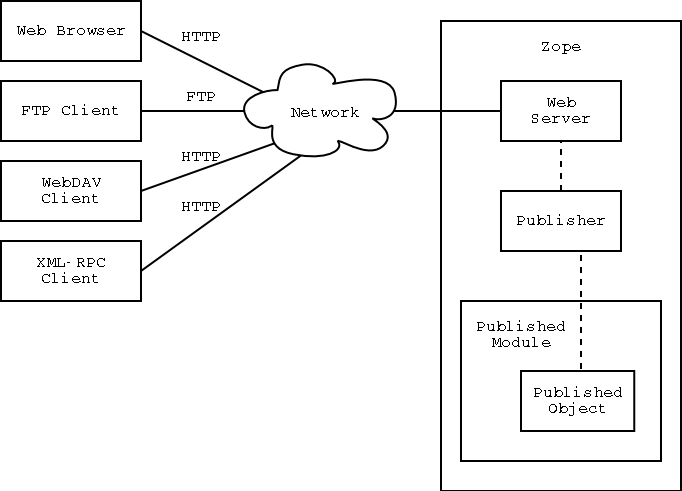
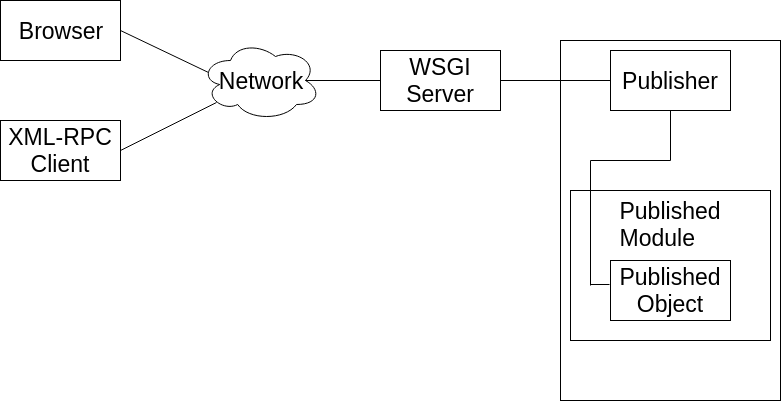
Revise chapter "HTTP Publishing"
modified:   docs/zdgbook/Figures/2-1.png
modified:   docs/zdgbook/ObjectPublishing.rst

diff --git a/docs/zdgbook/ObjectPublishing.rst b/docs/zdgbook/ObjectPublishing.rst
@@ -34,21 +34,31 @@ web publishing.
 HTTP Publishing
 ===============
 
-When you contact Zope with a web browser, your browser sends an HTTP
-request to Zope's web server.  After the request is completely
-received, it is processed by 'ZPublisher', which is Zope's object
-publisher.  'ZPublisher' is a kind of light-weight ORB (Object Request
-Broker).  It takes the request and locates an object to handle the
-request.  The publisher uses the request URL as a map to locate the
-published object.  Finding an object to handle the request is called
+Zope 4 no longer ships with a builtin web server, so when you want
+to interact with Zope via Browser you have to setup a WSGI server as
+a middle ware.
+
+
+.. note::
+
+    For usage on production server you will probably setup a reverse
+    proxy in front of the WSGI server.
+
+
+The WSGI server receives the request and hands it over to Zope, where
+it is processed by *ZPublisher*, which is Zope's object publisher.
+*ZPublisher* is a kind of light-weight ORB (Object Request
+Broker). It takes the request and locates an object to handle the
+request. The publisher uses the request URL as a map to locate the
+published object. Finding an object to handle the request is called
 *traversal*, since the publisher moves from object to object as it
-looks for the right one.  Once the published object is found, the
+looks for the right one. Once the published object is found, the
 publisher calls a method on the published object, passing it
-parameters as necessary.  The publisher uses information in the
+parameters as necessary. The publisher uses information in the
 request to determine which method to call, and what parameters to
-pass.  The process of extracting parameters from the request is called
-*argument marshalling*.  The published object then returns a response,
-which is passed back to Zope's web server.  The web server, then
+pass. The process of extracting parameters from the request is called
+*argument marshalling*. The published object then returns a response,
+which is passed back to the WSGI server. The WSGI server, then
 passes the response back to your web browser.
 
 
@@ -60,14 +70,14 @@ The publishing process is summarized in [2-1]
 
 
 Typically the published object is a persistent object that the
-published module loads from the ZODB.  See Chapter 4 for more
+published module loads from the ZODB. See Chapter 6 for more
 information on the ZODB.
 
 
 This chapter will cover all the steps of object publishing in detail.
 To summarize, object publishing consists of the main steps:
 
-1. The client sends a request to the publisher
+1. A request is sent to the publisher.
 
 2. The publisher locates the published object using the request
    URL as a map.
@@ -75,8 +85,7 @@ To summarize, object publishing consists of the main steps:
 3. The publisher calls the published object with arguments from
    the request.
 
-4. The publisher interprets and returns the results to the
-   client.
+4. The publisher interprets the results and passes them back.
 
 The chapter will also cover all the technical details, special cases
 and extra-steps that this list glosses over.
